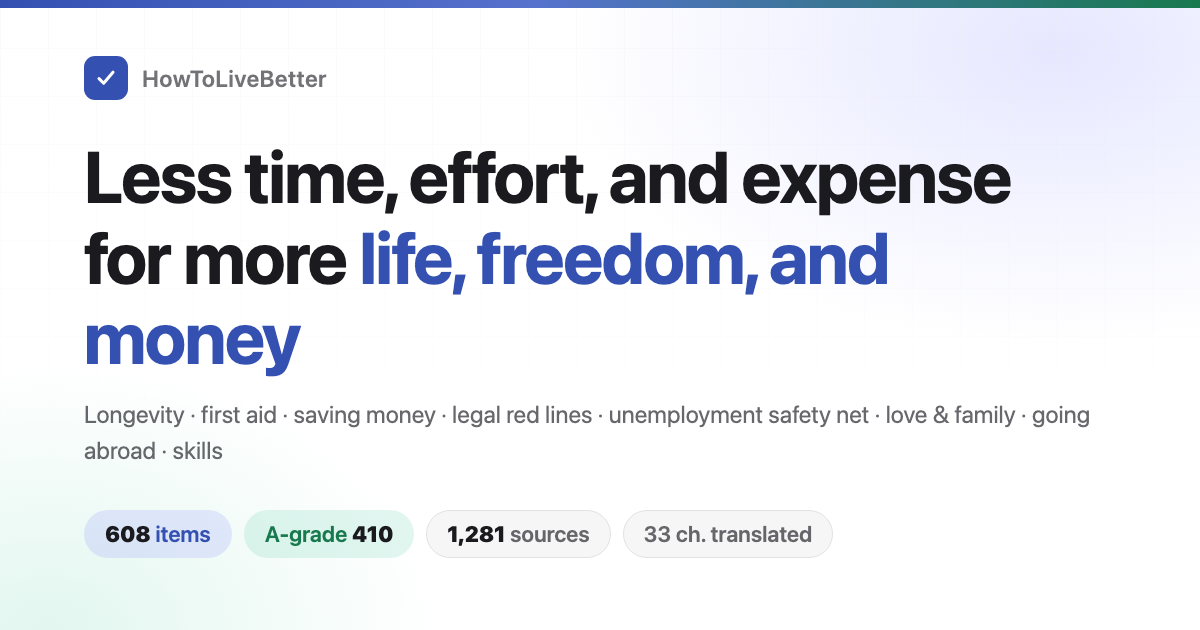
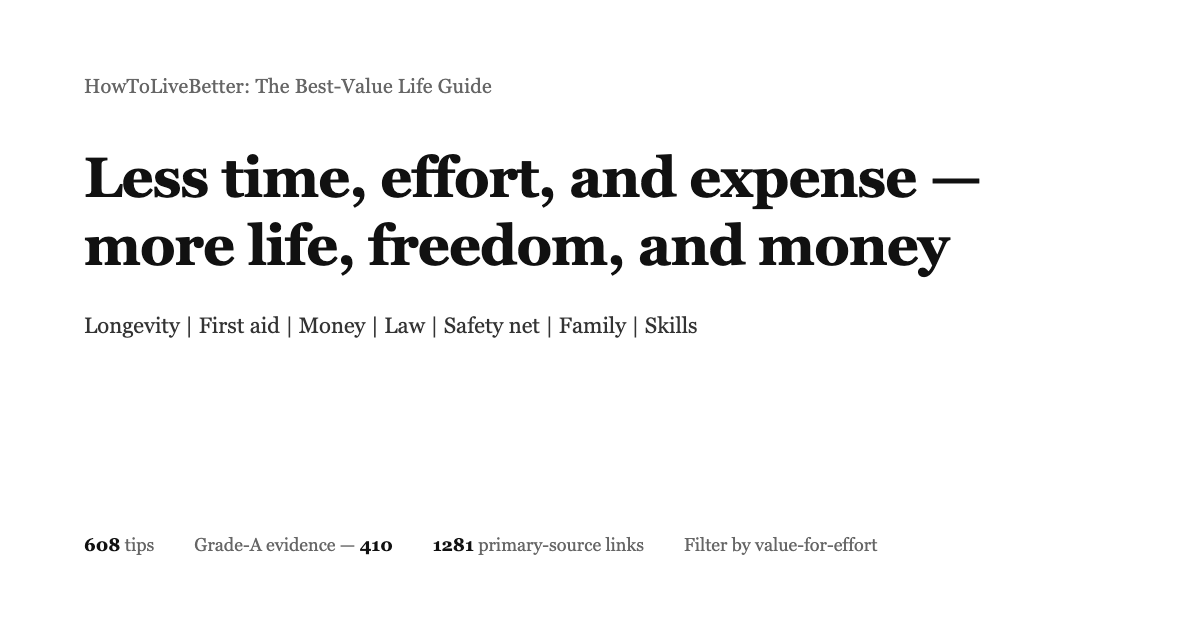
fix: restore V2 editorial OG templates from PR #49, update stats
- og-{en,ru,es}.html restored from 82cb0b1 (tools/og-*.html, deleted
  in Phase 2 artifact cleanup) — minimalist serif design matching V2 site
- Stats updated to current: 608 items, 410 grade-A, 1281 source links
  (old templates had pre-expansion numbers 601/407/1253)
- Screenshot comment header removed (instructions live in Makefile)
- make og regenerated all three PNGs

Verified: all text visible, no clipping, ru/en/es checked visually

diff --git a/og-ru.html b/og-ru.html
@@ -1,39 +1,30 @@
 <!doctype html><meta charset="utf-8">
 <style>
 *{margin:0;padding:0;box-sizing:border-box}
-body{width:1200px;height:630px;font-family:system-ui,-apple-system,sans-serif;
-  background:#fff;position:relative;overflow:hidden}
-.bg{position:absolute;inset:0;
-  background:radial-gradient(700px 420px at 88% 8%, rgba(100,108,255,.16), transparent 70%),
-             radial-gradient(560px 380px at 4% 100%, rgba(16,185,129,.12), transparent 70%)}
-.grid{position:absolute;inset:0;opacity:.5;
-  background-image:linear-gradient(#eceded 1px,transparent 1px),linear-gradient(90deg,#eceded 1px,transparent 1px);
-  background-size:48px 48px;
-  -webkit-mask-image:linear-gradient(180deg,rgba(0,0,0,.55),transparent 78%)}
-.in{position:relative;padding:56px 84px 72px;height:100%;display:flex;flex-direction:column}
-.brand{display:flex;align-items:center;gap:14px;font-size:23px;color:#3c3c43b8;font-weight:600;letter-spacing:.02em}
-.logo{width:44px;height:44px;border-radius:11px;background:#3451b2;color:#fff;font-size:26px;font-weight:700;
-  display:flex;align-items:center;justify-content:center}
-.logo svg{width:28px;height:28px}
-h1{margin-top:36px;font-size:72px;line-height:1.12;letter-spacing:-.02em;color:#1b1b1f;font-weight:700}
-h1 em{font-style:normal;color:#3451b2}
-p{margin-top:18px;font-size:24px;line-height:1.5;color:#3c3c43c7}
-.chips{margin-top:auto;margin-bottom:0;display:flex;gap:12px;flex-wrap:wrap}
-.c{font-size:22px;font-weight:600;padding:10px 20px;border-radius:999px;background:#f6f6f7;color:#3c3c43c7;border:1px solid #e2e2e3}
-.c b{color:#1b1b1f}
-.c.a{background:rgba(16,185,129,.12);border-color:transparent;color:#18794e}
-.c.u{background:rgba(100,108,255,.14);border-color:transparent;color:#3451b2}
-.bar{position:absolute;left:0;top:0;width:100%;height:8px;background:linear-gradient(90deg,#3451b2,#5672cd 45%,#18794e)}
+body{
+  width:1200px;height:630px;overflow:hidden;background:#ffffff;
+  font-family:Georgia,"Times New Roman","Noto Serif",serif;
+  color:#111111;
+}
+.in{position:relative;padding:72px 84px;height:100%;display:flex;flex-direction:column}
+.brand{font-size:20px;line-height:1.4;color:#666666;font-weight:400;letter-spacing:.01em}
+h1{margin-top:44px;font-size:52px;line-height:1.22;letter-spacing:-.015em;color:#111111;font-weight:700}
+.topics{margin-top:28px;font-size:22px;line-height:1.55;color:#333333;max-width:1030px}
+.stats{
+  margin-top:auto;padding-top:28px;
+  display:flex;flex-wrap:wrap;align-items:baseline;gap:12px 40px;
+  font-size:18px;line-height:1.45;color:#666666;
+}
+.stats b{color:#111111;font-weight:700}
 </style>
-<div class="bg"></div><div class="grid"></div><div class="bar"></div>
 <div class="in">
-  <div class="brand"><span class="logo" aria-hidden="true"><svg viewBox="0 0 24 24"><path d="M6 12.5l4 4 8-9.5" fill="none" stroke="currentColor" stroke-width="2.6" stroke-linecap="round" stroke-linejoin="round"/></svg></span>HowToLiveBetter</div>
-  <h1>Меньше времени, сил и расходов —<br>больше <em>жизни, свободы и денег</em></h1>
-  <p>Долголетие · первая помощь · экономия · закон · безработица · любовь и семья · за границу · навыки</p>
-  <div class="chips">
-    <div class="c u"><b>608</b> пунктов</div>
-    <div class="c a">Уровень A <b>410</b></div>
-    <div class="c"><b>1 281</b> источник</div>
-    <div class="c">33 гл. переведено</div>
+  <div class="brand">Гид по жизни с лучшим соотношением цены и результата</div>
+  <h1>Меньше времени, сил и расходов —<br>больше жизни, свободы и денег</h1>
+  <p class="topics">Долголетие | Первая помощь | Деньги | Право | Семья | Навыки</p>
+  <div class="stats">
+    <span><b>608</b> советов</span>
+    <span>Доказательства класса A — <b>410</b></span>
+    <span><b>1281</b> ссылок на первоисточники</span>
+    <span>Фильтр по выгодности</span>
   </div>
 </div>

diff --git a/og-es.html b/og-es.html
@@ -1,39 +1,30 @@
 <!doctype html><meta charset="utf-8">
 <style>
 *{margin:0;padding:0;box-sizing:border-box}
-body{width:1200px;height:630px;font-family:system-ui,-apple-system,sans-serif;
-  background:#fff;position:relative;overflow:hidden}
-.bg{position:absolute;inset:0;
-  background:radial-gradient(700px 420px at 88% 8%, rgba(100,108,255,.16), transparent 70%),
-             radial-gradient(560px 380px at 4% 100%, rgba(16,185,129,.12), transparent 70%)}
-.grid{position:absolute;inset:0;opacity:.5;
-  background-image:linear-gradient(#eceded 1px,transparent 1px),linear-gradient(90deg,#eceded 1px,transparent 1px);
-  background-size:48px 48px;
-  -webkit-mask-image:linear-gradient(180deg,rgba(0,0,0,.55),transparent 78%)}
-.in{position:relative;padding:56px 84px 72px;height:100%;display:flex;flex-direction:column}
-.brand{display:flex;align-items:center;gap:14px;font-size:23px;color:#3c3c43b8;font-weight:600;letter-spacing:.02em}
-.logo{width:44px;height:44px;border-radius:11px;background:#3451b2;color:#fff;font-size:26px;font-weight:700;
-  display:flex;align-items:center;justify-content:center}
-.logo svg{width:28px;height:28px}
-h1{margin-top:36px;font-size:72px;line-height:1.12;letter-spacing:-.02em;color:#1b1b1f;font-weight:700}
-h1 em{font-style:normal;color:#3451b2}
-p{margin-top:18px;font-size:24px;line-height:1.5;color:#3c3c43c7}
-.chips{margin-top:auto;margin-bottom:0;display:flex;gap:12px;flex-wrap:wrap}
-.c{font-size:22px;font-weight:600;padding:10px 20px;border-radius:999px;background:#f6f6f7;color:#3c3c43c7;border:1px solid #e2e2e3}
-.c b{color:#1b1b1f}
-.c.a{background:rgba(16,185,129,.12);border-color:transparent;color:#18794e}
-.c.u{background:rgba(100,108,255,.14);border-color:transparent;color:#3451b2}
-.bar{position:absolute;left:0;top:0;width:100%;height:8px;background:linear-gradient(90deg,#3451b2,#5672cd 45%,#18794e)}
+body{
+  width:1200px;height:630px;overflow:hidden;background:#ffffff;
+  font-family:Georgia,"Times New Roman","Noto Serif",serif;
+  color:#111111;
+}
+.in{position:relative;padding:72px 84px;height:100%;display:flex;flex-direction:column}
+.brand{font-size:20px;line-height:1.4;color:#666666;font-weight:400;letter-spacing:.01em}
+h1{margin-top:44px;font-size:52px;line-height:1.22;letter-spacing:-.015em;color:#111111;font-weight:700}
+.topics{margin-top:28px;font-size:22px;line-height:1.55;color:#333333;max-width:1030px}
+.stats{
+  margin-top:auto;padding-top:28px;
+  display:flex;flex-wrap:wrap;align-items:baseline;gap:12px 40px;
+  font-size:18px;line-height:1.45;color:#666666;
+}
+.stats b{color:#111111;font-weight:700}
 </style>
-<div class="bg"></div><div class="grid"></div><div class="bar"></div>
 <div class="in">
-  <div class="brand"><span class="logo" aria-hidden="true"><svg viewBox="0 0 24 24"><path d="M6 12.5l4 4 8-9.5" fill="none" stroke="currentColor" stroke-width="2.6" stroke-linecap="round" stroke-linejoin="round"/></svg></span>HowToLiveBetter</div>
-  <h1>Menos dinero, tiempo y esfuerzo<br>por más <em>vida, libertad y dinero</em></h1>
-  <p>Longevidad · primeros auxilios · ahorro · líneas rojas legales · desempleo · amor y familia · emigrar · habilidades</p>
-  <div class="chips">
-    <div class="c u"><b>608</b> consejos</div>
-    <div class="c a">Grado A <b>410</b></div>
-    <div class="c"><b>1.281</b> fuentes</div>
-    <div class="c">33 cap. traducidos</div>
+  <div class="brand">HowToLiveBetter: Guía de la vida al mejor precio</div>
+  <h1>Menos tiempo, esfuerzo y gasto —<br>más vida, libertad y dinero</h1>
+  <p class="topics">Longevidad | Primeros auxilios | Dinero | Leyes | Familia | Habilidades</p>
+  <div class="stats">
+    <span><b>608</b> consejos</span>
+    <span>Evidencia de grado A — <b>410</b></span>
+    <span><b>1281</b> enlaces a fuentes primarias</span>
+    <span>Filtro por relación valor-precio</span>
   </div>
 </div>

diff --git a/og-en.html b/og-en.html
@@ -1,39 +1,30 @@
 <!doctype html><meta charset="utf-8">
 <style>
 *{margin:0;padding:0;box-sizing:border-box}
-body{width:1200px;height:630px;font-family:system-ui,-apple-system,sans-serif;
-  background:#fff;position:relative;overflow:hidden}
-.bg{position:absolute;inset:0;
-  background:radial-gradient(700px 420px at 88% 8%, rgba(100,108,255,.16), transparent 70%),
-             radial-gradient(560px 380px at 4% 100%, rgba(16,185,129,.12), transparent 70%)}
-.grid{position:absolute;inset:0;opacity:.5;
-  background-image:linear-gradient(#eceded 1px,transparent 1px),linear-gradient(90deg,#eceded 1px,transparent 1px);
-  background-size:48px 48px;
-  -webkit-mask-image:linear-gradient(180deg,rgba(0,0,0,.55),transparent 78%)}
-.in{position:relative;padding:56px 84px 72px;height:100%;display:flex;flex-direction:column}
-.brand{display:flex;align-items:center;gap:14px;font-size:23px;color:#3c3c43b8;font-weight:600;letter-spacing:.02em}
-.logo{width:44px;height:44px;border-radius:11px;background:#3451b2;color:#fff;font-size:26px;font-weight:700;
-  display:flex;align-items:center;justify-content:center}
-.logo svg{width:28px;height:28px}
-h1{margin-top:36px;font-size:72px;line-height:1.12;letter-spacing:-.02em;color:#1b1b1f;font-weight:700}
-h1 em{font-style:normal;color:#3451b2}
-p{margin-top:18px;font-size:24px;line-height:1.5;color:#3c3c43c7}
-.chips{margin-top:auto;margin-bottom:0;display:flex;gap:12px;flex-wrap:wrap}
-.c{font-size:22px;font-weight:600;padding:10px 20px;border-radius:999px;background:#f6f6f7;color:#3c3c43c7;border:1px solid #e2e2e3}
-.c b{color:#1b1b1f}
-.c.a{background:rgba(16,185,129,.12);border-color:transparent;color:#18794e}
-.c.u{background:rgba(100,108,255,.14);border-color:transparent;color:#3451b2}
-.bar{position:absolute;left:0;top:0;width:100%;height:8px;background:linear-gradient(90deg,#3451b2,#5672cd 45%,#18794e)}
+body{
+  width:1200px;height:630px;overflow:hidden;background:#ffffff;
+  font-family:Georgia,"Times New Roman","Noto Serif",serif;
+  color:#111111;
+}
+.in{position:relative;padding:72px 84px;height:100%;display:flex;flex-direction:column}
+.brand{font-size:20px;line-height:1.4;color:#666666;font-weight:400;letter-spacing:.01em}
+h1{margin-top:44px;font-size:56px;line-height:1.22;letter-spacing:-.015em;color:#111111;font-weight:700}
+.topics{margin-top:28px;font-size:22px;line-height:1.55;color:#333333;max-width:1030px}
+.stats{
+  margin-top:auto;padding-top:28px;
+  display:flex;flex-wrap:wrap;align-items:baseline;gap:12px 40px;
+  font-size:18px;line-height:1.45;color:#666666;
+}
+.stats b{color:#111111;font-weight:700}
 </style>
-<div class="bg"></div><div class="grid"></div><div class="bar"></div>
 <div class="in">
-  <div class="brand"><span class="logo" aria-hidden="true"><svg viewBox="0 0 24 24"><path d="M6 12.5l4 4 8-9.5" fill="none" stroke="currentColor" stroke-width="2.6" stroke-linecap="round" stroke-linejoin="round"/></svg></span>HowToLiveBetter</div>
-  <h1>Less time, effort, and expense<br>for more <em>life, freedom, and money</em></h1>
-  <p>Longevity · first aid · saving money · legal red lines · unemployment safety net · love &amp; family · going abroad · skills</p>
-  <div class="chips">
-    <div class="c u"><b>608</b> items</div>
-    <div class="c a">A-grade <b>410</b></div>
-    <div class="c"><b>1,281</b> sources</div>
-    <div class="c">33 ch. translated</div>
+  <div class="brand">HowToLiveBetter: The Best-Value Life Guide</div>
+  <h1>Less time, effort, and expense —<br>more life, freedom, and money</h1>
+  <p class="topics">Longevity | First aid | Money | Law | Safety net | Family | Skills</p>
+  <div class="stats">
+    <span><b>608</b> tips</span>
+    <span>Grade-A evidence — <b>410</b></span>
+    <span><b>1281</b> primary-source links</span>
+    <span>Filter by value-for-effort</span>
   </div>
 </div>
